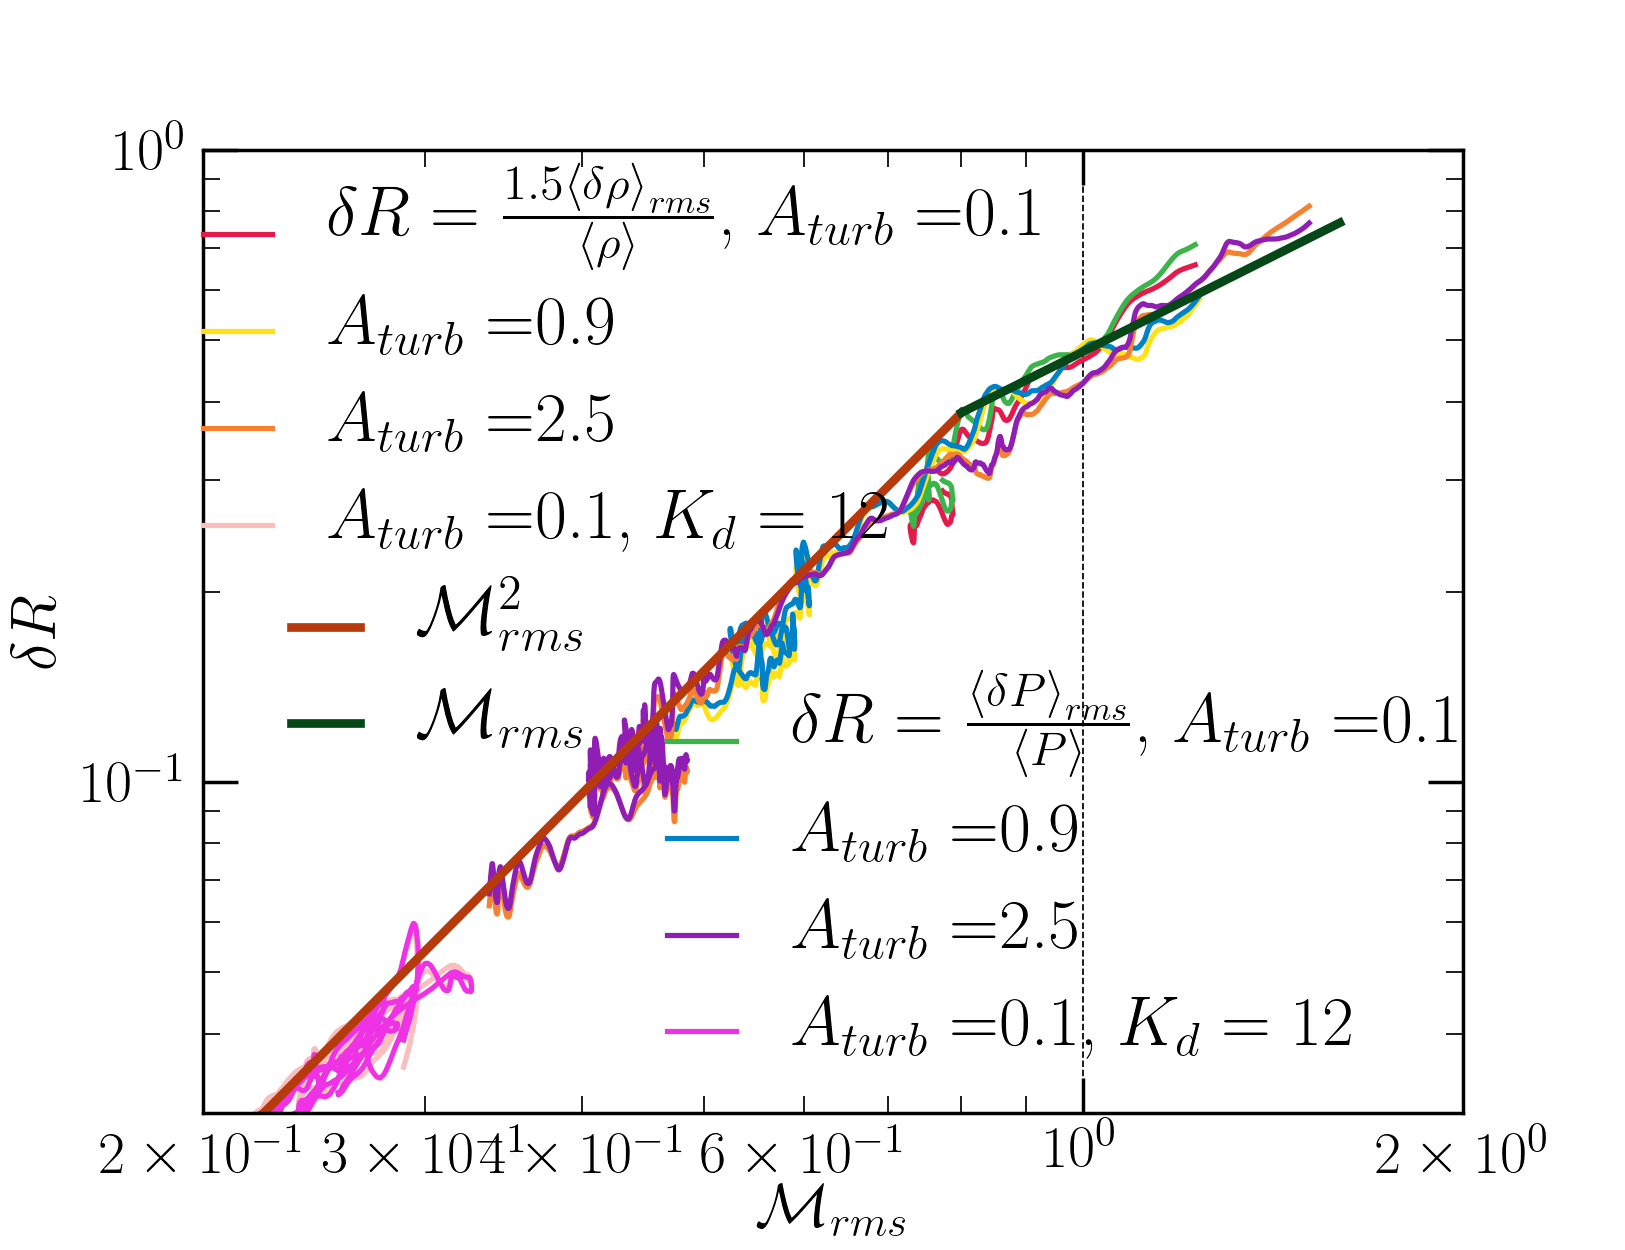
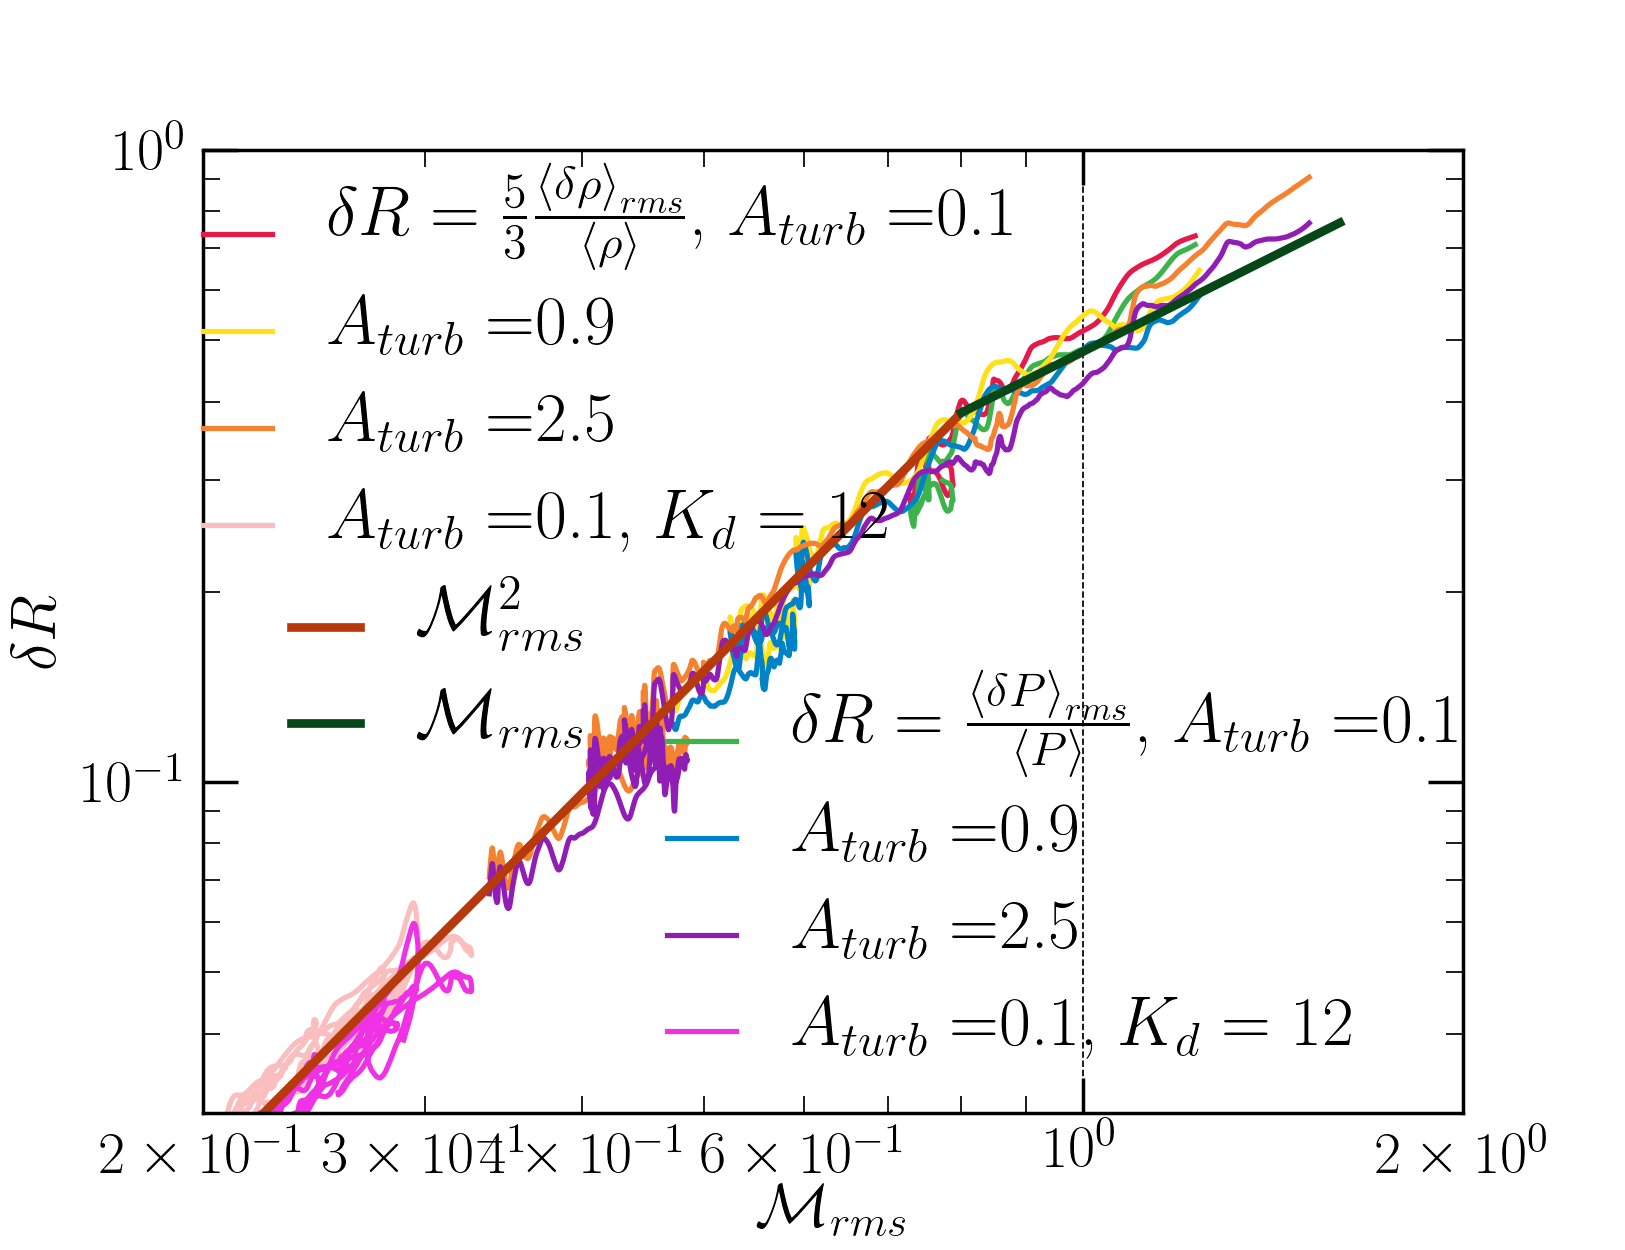
Changed rho-mach plots

diff --git a/rho-mach/density_mach_256.py b/rho-mach/density_mach_256.py
@@ -44,17 +44,17 @@ for i1 in xrange(0,np.shape(amp)[0]):
 	#Ignore data before statistical equilibrium state
 	#Plot the data
 	if (i1==0): 
-		perturb1[i1], =ax.plot(data[:,11],1.5*data[:,12],label=r'$\delta R=\frac{1.5\left<\delta\rho\right>_{rms}}{\left<\rho\right>}$, $A_{turb}=$'+str(amp[i1]), color=colors[2*i1], marker=".", markeredgecolor='none', markersize=0.1, linewidth=1.5)
+		perturb1[i1], =ax.plot(data[:,11],5./3.*data[:,12],label=r'$\delta R=\frac{5}{3}\frac{\left<\delta\rho\right>_{rms}}{\left<\rho\right>}$, $A_{turb}=$'+str(amp[i1]), color=colors[2*i1], marker=".", markeredgecolor='none', markersize=0.1, linewidth=1.5)
 		perturb2[i1], =ax.plot(data[:,11],data[:,13],label=r'$\delta R=\frac{\left<\delta P\right>_{rms}}{\left< P\right>}$, $A_{turb}=$'+str(amp[i1]), color=colors[2*i1+1], marker="d", markeredgecolor='none', markersize=0.1, linewidth=1.5)
 	else: 
-		perturb1[i1], =ax.plot(data[:,11],1.5*data[:,12],label=r'$A_{turb}=$'+str(amp[i1]), color=colors[2*i1], marker=".", markeredgecolor='none', markersize=0.1, linewidth=1.5)
+		perturb1[i1], =ax.plot(data[:,11],5./3.*data[:,12],label=r'$A_{turb}=$'+str(amp[i1]), color=colors[2*i1], marker=".", markeredgecolor='none', markersize=0.1, linewidth=1.5)
  
 		perturb2[i1], =ax.plot(data[:,11],data[:,13],label=r'$A_{turb}=$'+str(amp[i1]), color=colors[2*i1+1], marker="d", markeredgecolor='none', markersize=0.1, linewidth=1.5)
 
 fig.set_size_inches(6.5, 5.)
 ax.set_xlabel(r'$\mathcal{M}_{rms}$', fontsize=18)
 ax.set_ylabel(r'$\delta R$', fontsize=18)
-#ax.set_ylabel(r'$\frac{1.5\left<\delta\rho\right>_{rms}}{\left<\rho\right>}$, $\frac{\left<\delta P\right>_{rms}}{\left< P\right>}$', fontsize=16)
+#ax.set_ylabel(r'$\frac{5}{3}\frac{\left<\delta\rho\right>_{rms}}{\left<\rho\right>}$, $\frac{\left<\delta P\right>_{rms}}{\left< P\right>}$', fontsize=16)
 x1=np.arange(0.2,0.8,0.002)
 y=np.arange(0.8,1.6,0.002)
 
@@ -66,7 +66,7 @@ for i in xrange(0,data_kh.shape[0]):
     break
 data_kh=data_kh[:][i:]
 #Ignore data before statistical equilibrium state
-perturb1[i1+1], =ax.plot(data_kh[:,11],1.5*data_kh[:,12],label=r'$A_{turb}=$'+str(amp[0])+', $K_d=12$', color=colors[8], marker=".", markeredgecolor='none', markersize=0.1, linewidth=1.5)
+perturb1[i1+1], =ax.plot(data_kh[:,11],5./3.*data_kh[:,12],label=r'$A_{turb}=$'+str(amp[0])+', $K_d=12$', color=colors[8], marker=".", markeredgecolor='none', markersize=0.1, linewidth=1.5)
 perturb2[i1+1], =ax.plot(data_kh[:,11],data_kh[:,13],label=r'$A_{turb}=$'+str(amp[0])+', $K_d=12$', color=colors[7], marker="d", markeredgecolor='none', markersize=0.1, linewidth=1.5)
 
 

diff --git a/rho-mach/density_mach_all.py b/rho-mach/density_mach_all.py
@@ -41,7 +41,7 @@ fig, ax = plt.subplots()
 fig.set_size_inches(6.5, 5.)
 ax.set_xlabel(r'$\mathcal{M}_{rms}$', fontsize=20)
 ax.set_ylabel(r'$\delta R$', fontsize=20)
-#ax.set_ylabel(r'$\frac{1.5\left<\delta\rho\right>_{rms}}{\left<\rho\right>}$, $\frac{\left<\delta P\right>_{rms}}{\left< P\right>}$', fontsize=16)
+#ax.set_ylabel(r'$\frac{5}{3}\frac{\left<\delta\rho\right>_{rms}}{\left<\rho\right>}$, $\frac{\left<\delta P\right>_{rms}}{\left< P\right>}$', fontsize=16)
 x1=np.arange(0.3,0.8,0.002)
 y=np.arange(0.8,3.,0.002)
 
@@ -71,8 +71,8 @@ for i1 in xrange(0, start.size):
         #Load data
 	print file 
         #Plot the data
-        ax.plot(data[:,2][:int(start_time[i1]/step_size)],1.5*data[:,1][:int(start_time[i1]/step_size)], label=labels[i1], color=colors[i1], marker=".", markersize=2., linewidth=.5)
-        perturb2[0], =ax.plot(data[:,2][int(start_time[i1]/step_size):],1.5*data[:,1][int(start_time[i1]/step_size):], label=r'$\frac{1.5\left<\delta\rho\right>_{rms}}{\left<\rho\right>}$', color=colors[i1], marker=".", markersize=3., linewidth=0.5)
+        ax.plot(data[:,2][:int(start_time[i1]/step_size)],5./3.*data[:,1][:int(start_time[i1]/step_size)], label=labels[i1], color=colors[i1], marker=".", markersize=2., linewidth=.5)
+        perturb2[0], =ax.plot(data[:,2][int(start_time[i1]/step_size):],5./3.*data[:,1][int(start_time[i1]/step_size):], label=r'$\frac{5}{3}\frac{\left<\delta\rho\right>_{rms}}{\left<\rho\right>}$', color=colors[i1], marker=".", markersize=3., linewidth=0.5)
 
         perturb1[i1],=ax.plot(data[:,2][:int(start_time[i1]/step_size)],data[:,0][:int(start_time[i1]/step_size)], label=labels[i1], color=colors[i1], marker="v", markersize=2., linewidth=.5)
         perturb2[1], =ax.plot(data[:,2][int(start_time[i1]/step_size):],data[:,0][int(start_time[i1]/step_size):], label=r'$\frac{\left<\delta P\right>_{rms}}{\left< P\right>}$', color=colors[i1], marker="v", markersize=3., linewidth=0.5)
